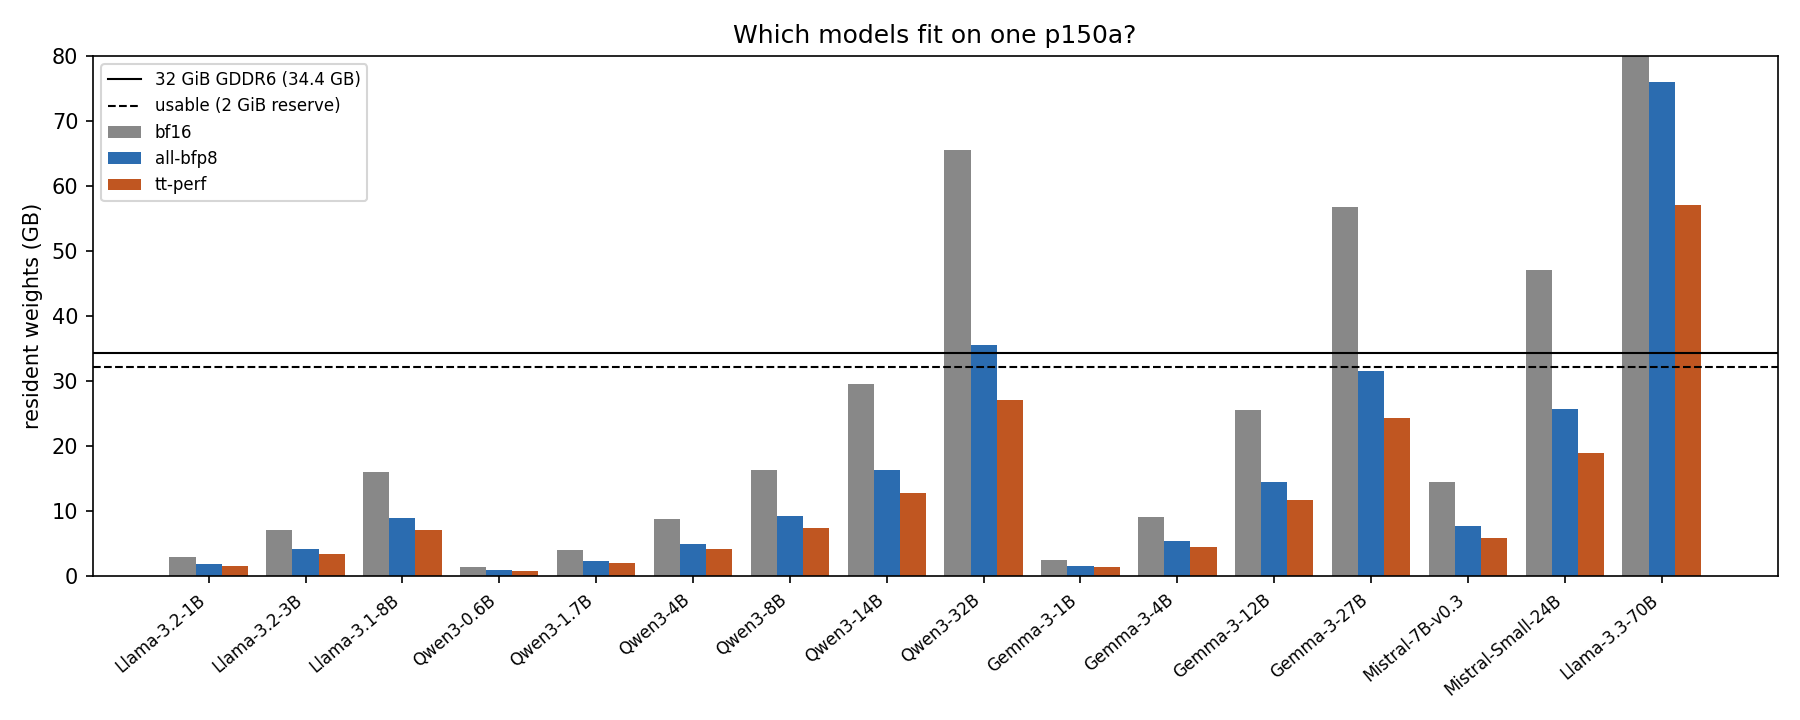
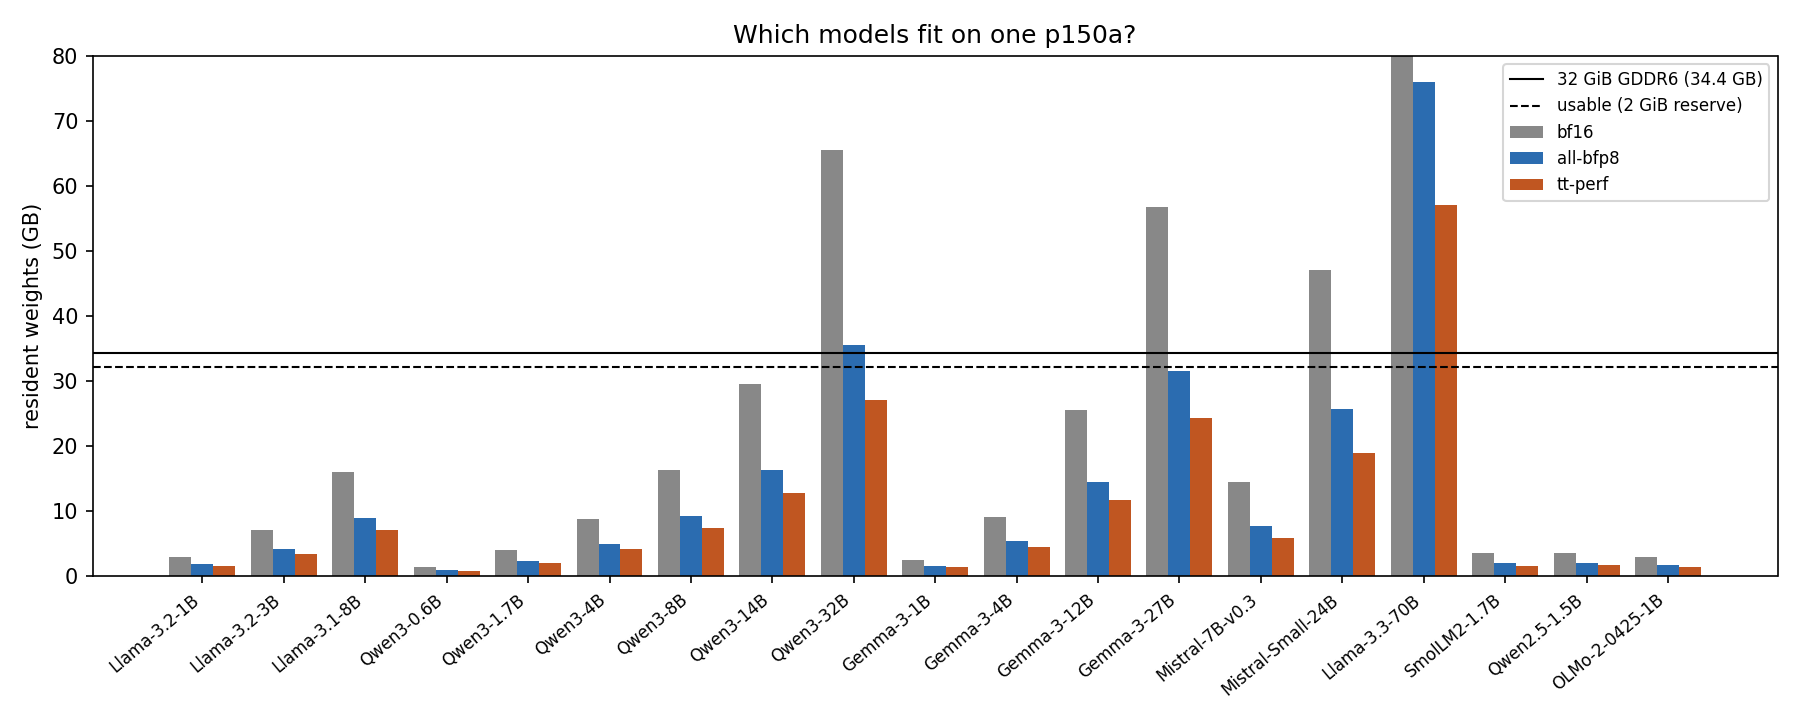
ppl: top-1 agreement metric, C4 corpus option, three ungated model configs
- evaluate() also returns argmax predictions; tables gain a top-1 agreement column
- workflow: corpus input (wikitext2_test | c4_validation), push retry for parallel runs
- roofline MODELS: SmolLM2-1.7B, Qwen2.5-1.5B, OLMo-2-0425-1B

Changed region(s): [[0.0622, 0.0611, 0.9956, 0.9472], [0.0622, 0.0917, 0.2178, 0.1528], [0.0622, 0.1528, 0.1244, 0.275]]

diff --git a/ppl.py b/ppl.py
@@ -54,8 +54,9 @@ def apply_config(model, cfg):
 
 
 @torch.no_grad()
-def perplexity(model, ids, ctx):
-    nll, count = 0.0, 0
+def evaluate(model, ids, ctx):
+    """Perplexity and the model's top-1 next-token predictions (for agreement with the reference)."""
+    nll, count, top1 = 0.0, 0, []
     for i in range(0, len(ids) - 1, ctx):
         chunk = ids[i:i + ctx + 1]
         if len(chunk) < 2:
@@ -64,7 +65,8 @@ def perplexity(model, ids, ctx):
         logits = model(x).logits.float()
         nll += torch.nn.functional.cross_entropy(logits[0], y[0], reduction="sum").item()
         count += y.numel()
-    return float(torch.exp(torch.tensor(nll / count)))
+        top1.append(logits[0].argmax(-1))
+    return float(torch.exp(torch.tensor(nll / count))), torch.cat(top1)
 
 
 def main():
@@ -95,21 +97,24 @@ def main():
     specs = a.configs.split(",")
     if a.layer_sweep:
         groups, fmt = a.layer_sweep.split("=")
-        n_layers = load().config.num_hidden_layers
+        from transformers import AutoConfig
+        n_layers = AutoConfig.from_pretrained(a.model).num_hidden_layers
         specs = [a.sweep_base] + [a.sweep_base + "".join(f"+L{i}.{g}={fmt}" for g in groups.split(","))
                                   for i in range(n_layers)]
 
     rows = [f"Model `{a.model}` ({a.dtype} compute), {len(ids):,} tokens of `{Path(a.text).name}`, ctx {a.ctx}. "
             "Weights only (KV cache / activations not quantized).\n",
-            "| Config | PPL | Δ vs unquantized |", "|---|---:|---:|"]
-    base = perplexity(load(), ids, a.ctx)
-    rows.append(f"| unquantized ({a.dtype}) | {base:.3f} | — |")
+            "Top-1 agree = share of positions where the quantized model's argmax token matches the unquantized one.\n",
+            "| Config | PPL | Δ vs unquantized | Top-1 agree |", "|---|---:|---:|---:|"]
+    base, ref_top1 = evaluate(load(), ids, a.ctx)
+    rows.append(f"| unquantized ({a.dtype}) | {base:.3f} | — | — |")
     print(rows[-1], flush=True)
     for spec in specs:
         model = load()
         apply_config(model, parse_spec(spec))
-        p = perplexity(model, ids, a.ctx)
-        rows.append(f"| `{spec}` | {p:.3f} | {100 * (p / base - 1):+.2f}% |")
+        p, top1 = evaluate(model, ids, a.ctx)
+        agree = (top1 == ref_top1).float().mean().item()
+        rows.append(f"| `{spec}` | {p:.3f} | {100 * (p / base - 1):+.2f}% | {100 * agree:.2f}% |")
         print(rows[-1], flush=True)
         del model
     out = Path(__file__).parent / "results" / f"ppl_{a.model.split('/')[-1]}_{a.tag}.md"

diff --git a/tests/test_ppl.py b/tests/test_ppl.py
@@ -11,10 +11,11 @@ ppl.untie_lm_head(m)
 assert m.lm_head.weight is not m.model.embed_tokens.weight
 ids = list(torch.randint(0, 256, (600,)).tolist())
 ref = {k: v.clone() for k, v in m.state_dict().items()}
-base = ppl.perplexity(m, ids, 128)
+base, ref_top1 = ppl.evaluate(m, ids, 128)
+assert len(ref_top1) == len(ids) - 1
 out = {}
 for name in CONFIGS:
-    m.load_state_dict(ref); n = ppl.apply_config(m, CONFIGS[name]); out[name] = ppl.perplexity(m, ids, 128)
+    m.load_state_dict(ref); n = ppl.apply_config(m, CONFIGS[name]); out[name] = ppl.evaluate(m, ids, 128)[0]
     assert n == 2*7 + 1, n
 emb_ok = torch.equal(m.model.embed_tokens.weight, ref["model.embed_tokens.weight"])
 print(base, out, "embedding untouched:", emb_ok)

diff --git a/roofline.py b/roofline.py
@@ -55,6 +55,10 @@ MODELS = {
     "Mistral-7B-v0.3":   dict(d=4096, L=32, H=32, KV=8,  hd=128, I=14336, V=32768),
     "Mistral-Small-24B": dict(d=5120, L=40, H=32, KV=8,  hd=128, I=32768, V=131072),
     "Llama-3.3-70B":     dict(d=8192, L=80, H=64, KV=8,  hd=128, I=28672, V=128256),
+    # ungated stand-ins used for the CPU accuracy study (Llama/Gemma checkpoints need an HF token)
+    "SmolLM2-1.7B":      dict(d=2048, L=24, H=32, KV=32, hd=64,  I=8192,  V=49152),
+    "Qwen2.5-1.5B":      dict(d=1536, L=28, H=12, KV=2,  hd=128, I=8960,  V=151936),
+    "OLMo-2-0425-1B":    dict(d=2048, L=16, H=16, KV=16, hd=128, I=8192,  V=100352),
 }
 
 # Published reference point (tt-metal models/README.md, v0.64.0-dev20251030, ISL 128):

diff --git a/results/fit.md b/results/fit.md
@@ -16,3 +16,6 @@
 | Mistral-7B-v0.3 | 7.11 | 14.5 | 7.8 | 5.9 | 5.0 | 4.3 | 68 | 377,193 | 92 |
 | Mistral-Small-24B | 22.90 | ~~47.1~~ | 25.7 | 19.0 | 15.6 | 14.2 | 85 | 152,214 | 37 |
 | Llama-3.3-70B | 69.50 | ~~141.1~~ | ~~75.9~~ | ~~57.2~~ | ~~47.8~~ | ~~41.2~~ | 170 | 0 | 0 |
+| SmolLM2-1.7B | 1.71 | 3.6 | 2.0 | 1.6 | 1.4 | 1.2 | 102 | 292,924 | 71 |
+| Qwen2.5-1.5B | 1.54 | 3.6 | 2.1 | 1.7 | 1.5 | 1.3 | 15 | 2,001,760 | 488 |
+| OLMo-2-0425-1B | 1.28 | 3.0 | 1.8 | 1.5 | 1.4 | 1.1 | 68 | 441,039 | 107 |

diff --git a/results/l1.md b/results/l1.md
@@ -16,3 +16,6 @@
 | Mistral-7B-v0.3 | 416 | 221 | 117 | 1.54 | 68.0 |
 | Mistral-Small-24B | 1060 | 563 | 298 | 0.60 | 85.0 |
 | Llama-3.3-70B | 1632 | 867 | 459 | 0.39 | 170.0 |
+| SmolLM2-1.7B | 128 | 68 | 36 | 5.00 | 102.0 |
+| Qwen2.5-1.5B | 89 | 47 | 25 | 7.17 | 14.9 |
+| OLMo-2-0425-1B | 128 | 68 | 36 | 5.00 | 68.0 |
